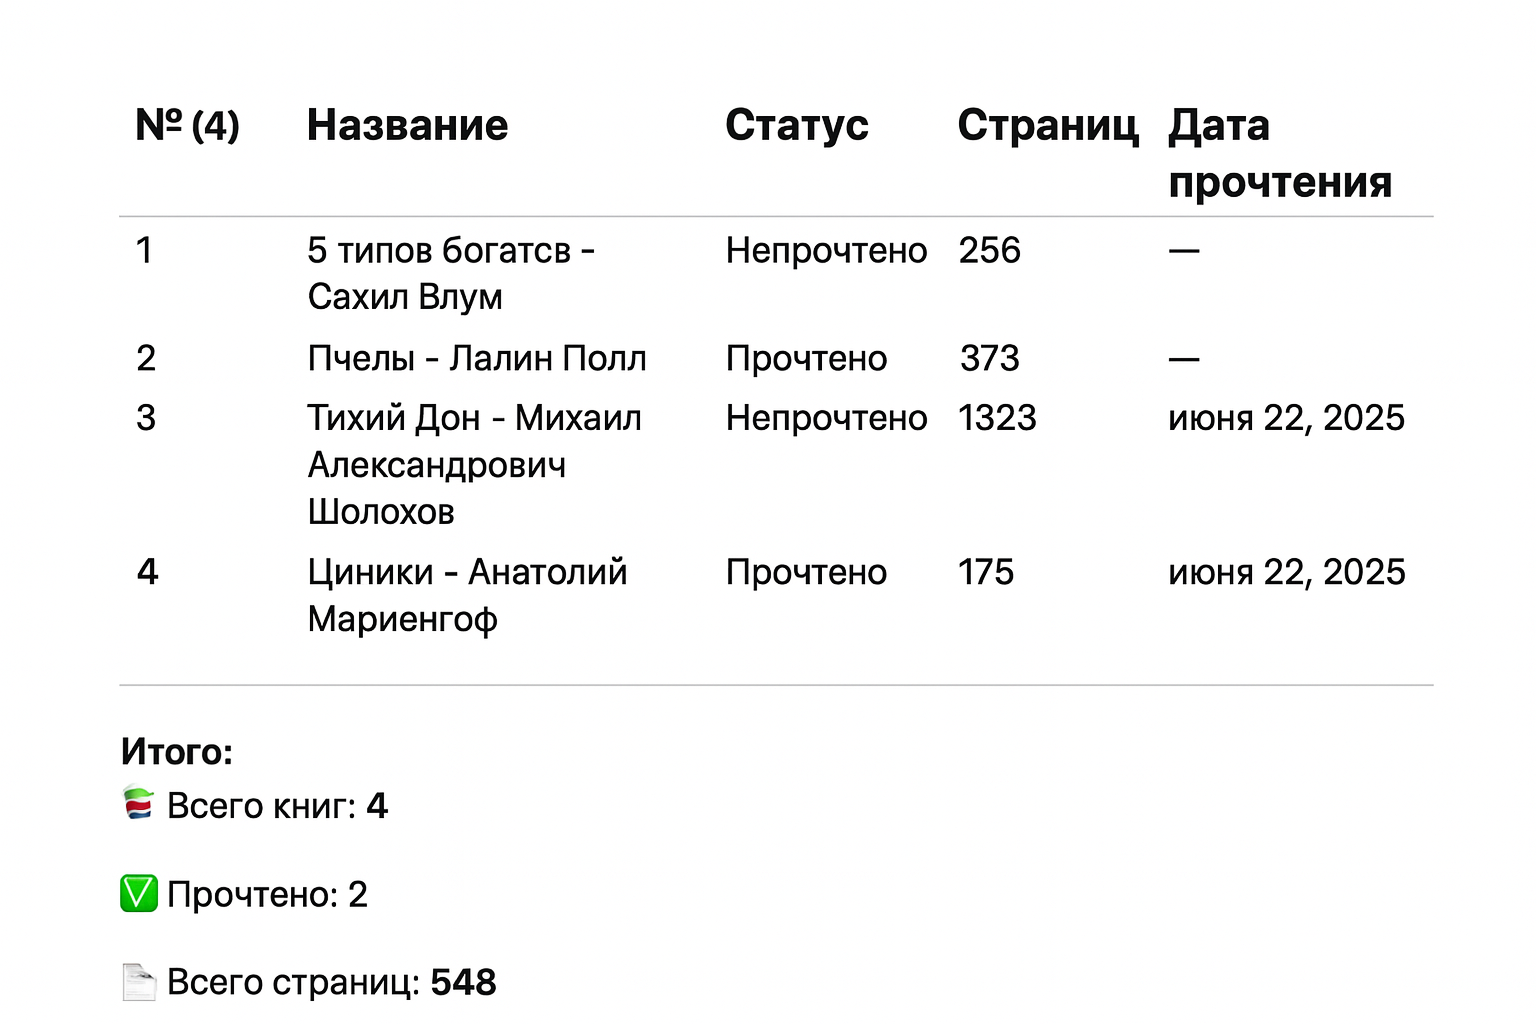
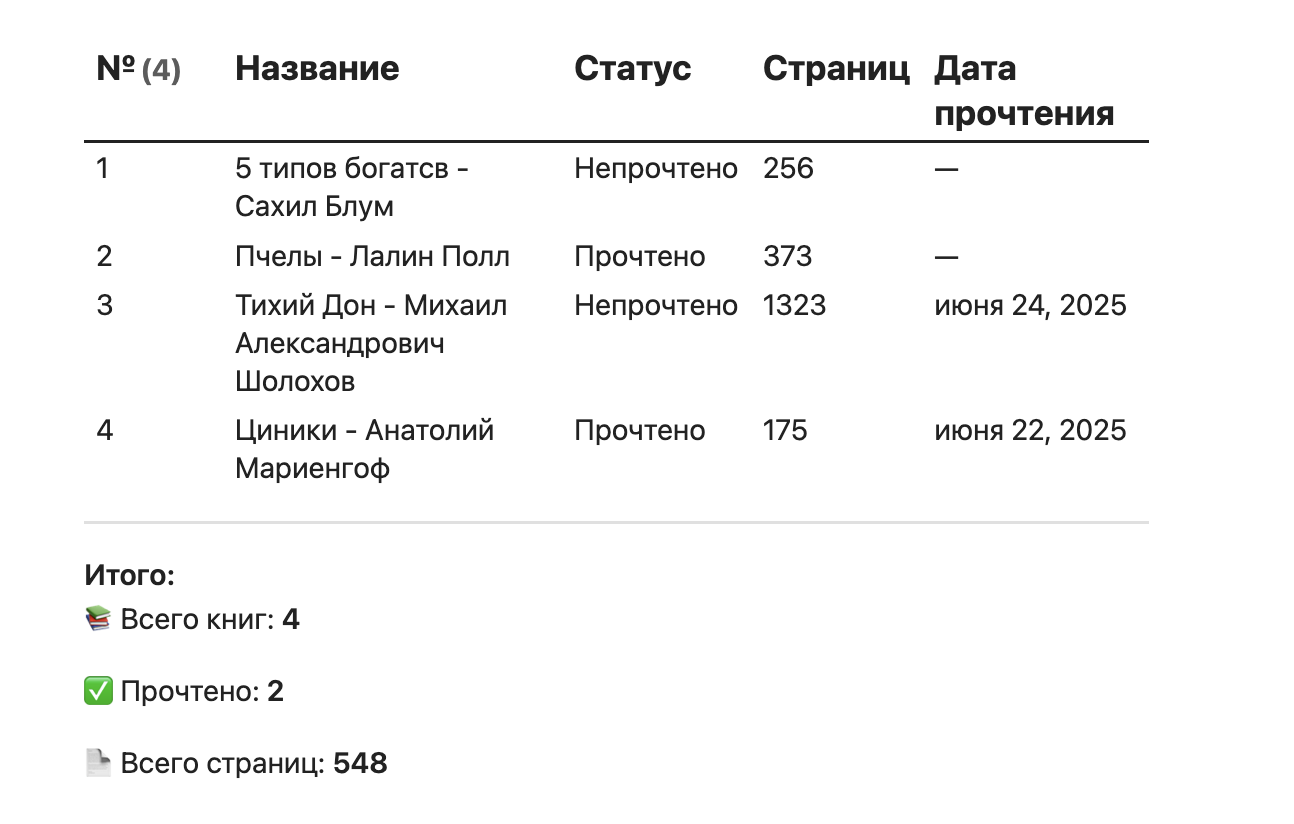
fix

diff --git a/docs/img/img.md b/docs/img/img.md
@@ -1,0 +1,5 @@
+---
+tags: MOCs
+---
+```folder-index-content
+```
